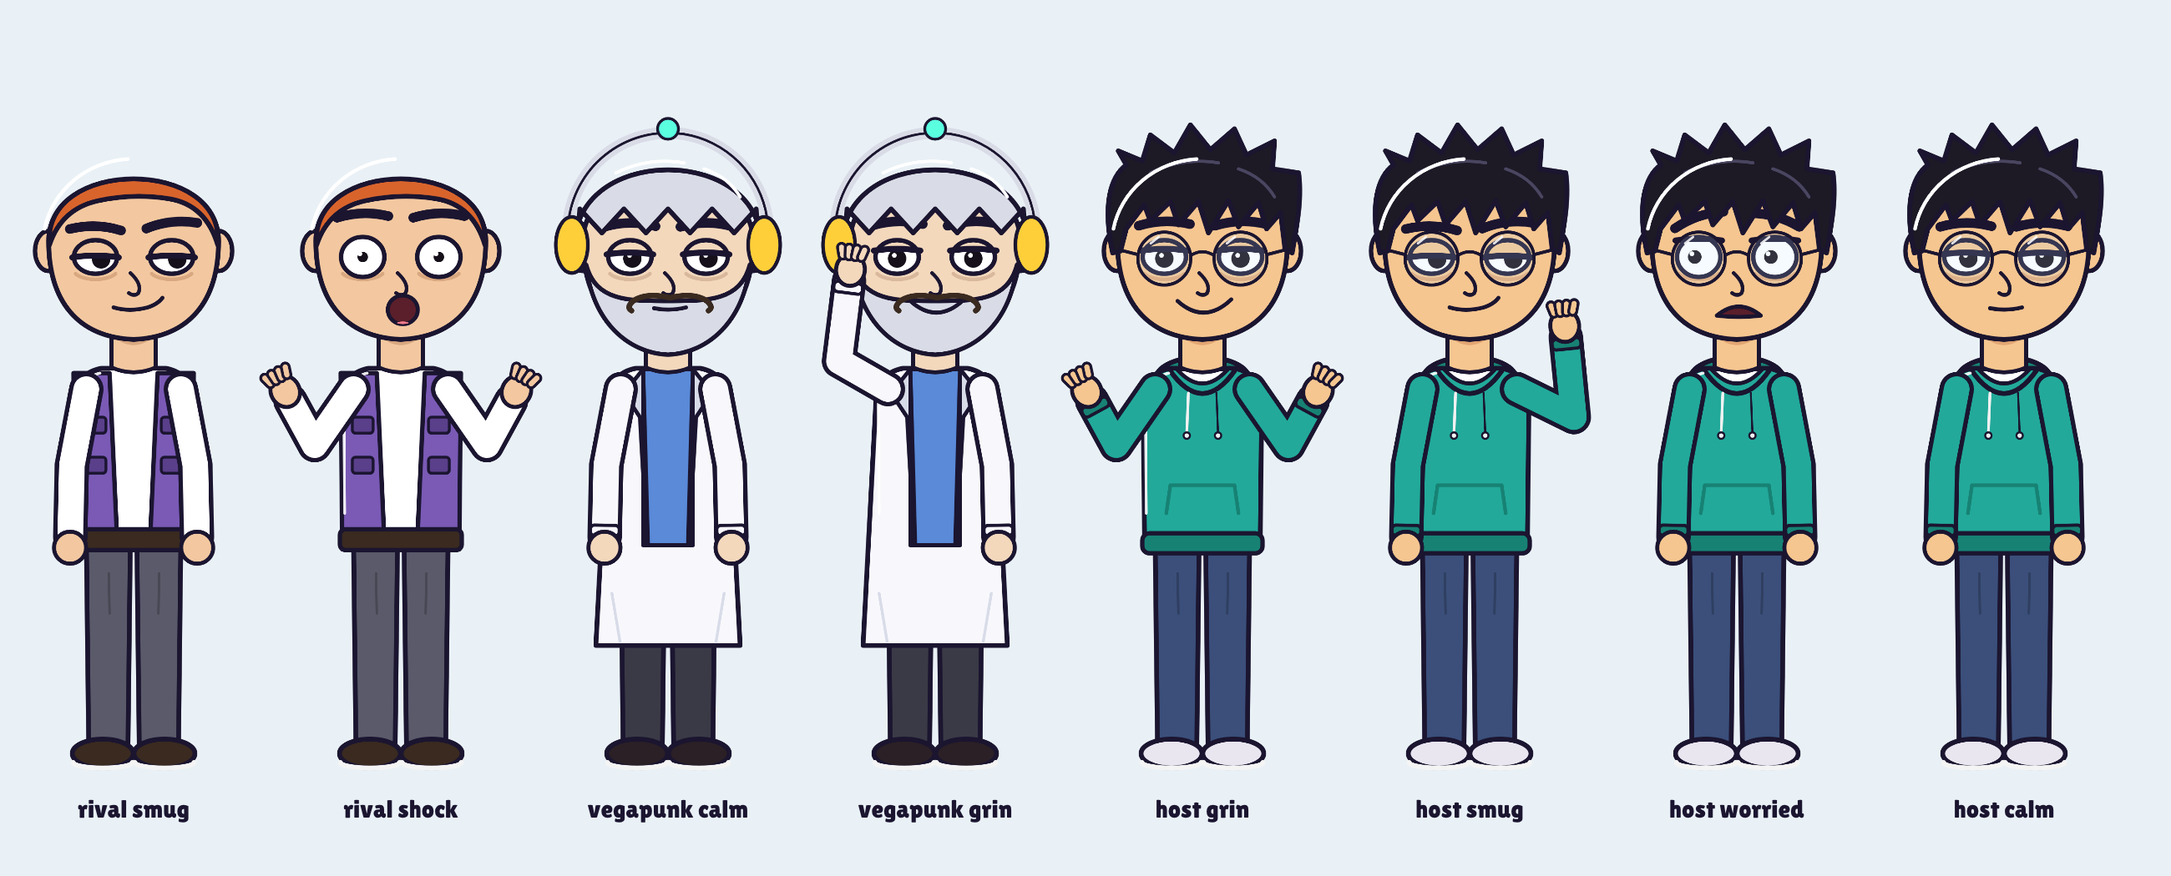
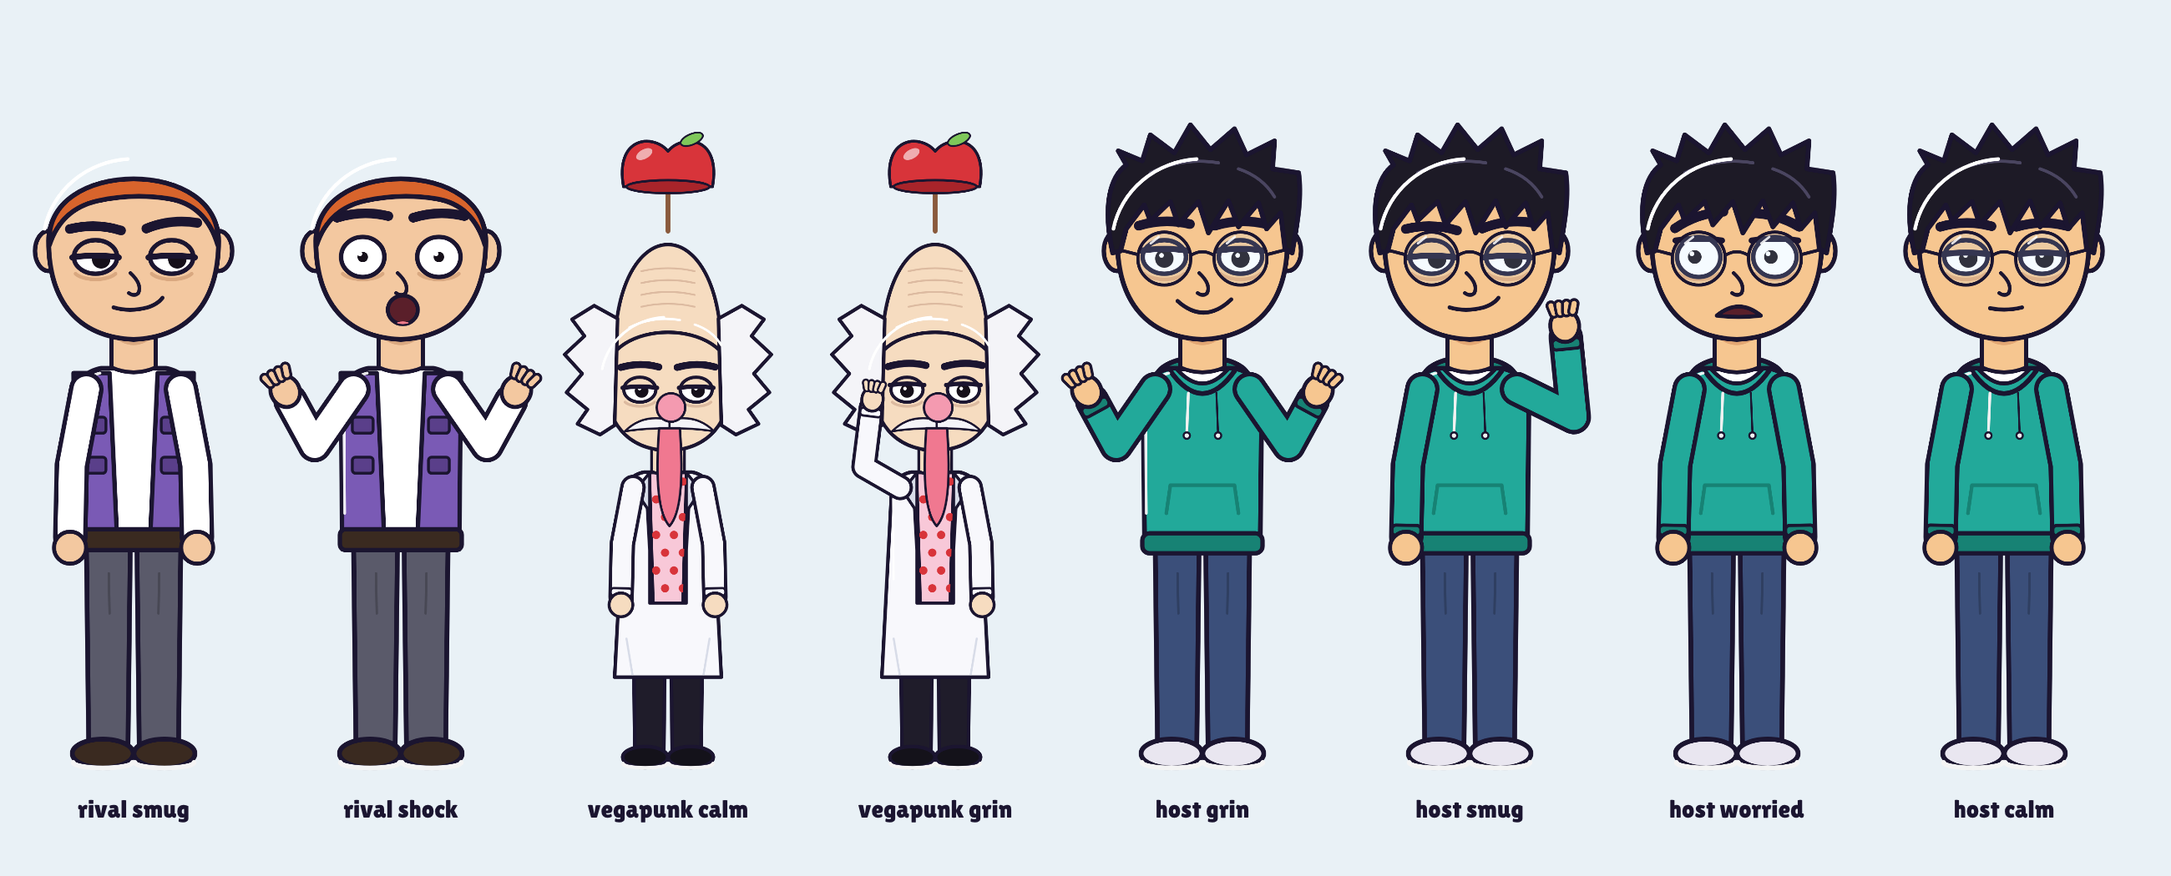
Match Bege and Vegapunk to user references
Claude-Session: https://claude.ai/code/session_01LedSfqc1zbW4UvWfiqXE3c

Changed region(s): [[0.2492, 0.1219, 0.4985, 0.8838]]

diff --git a/engine/art.js b/engine/art.js
@@ -66,7 +66,7 @@ export const LOOKS = {
   boxer: { skin: '#c98d64', skinD: '#ab7049', hair: '#1d1a22', hairL: '#3d3443', hairStyle: 'short',
           top: 'tank', cloth: '#e8402e', clothD: '#b52a1f', pants: '#e8402e', shorts: true, shoe: '#f4f4f8', boots: true, arm: '#c98d64' },
   caribou: { skin: '#9a6a4a', skinD: '#7a5034', hair: '#1d1a22', hairL: '#3d3443', hairStyle: 'spikyLong', grinWide: true, goatee: true,
-          top: 'robe', cloth: '#e0e0d0', clothD: '#c0c0b0', cloakCol: '#1f1f24', cloakLining: '#a8b82a', fur: true, pants: '#c84a32', shoe: '#5a3a26', boots: false, arm: '#e0e0d0', cuff: '#e0e0d0' },
+          top: 'robe', cloth: '#e0e0d0', clothD: '#c0c0b0', cloakCol: '#1f1f24', cloakLining: '#a8b82a', liningSpots: true, fur: true, pants: '#c84a32', shoe: '#5a3a26', boots: false, arm: '#e0e0d0', cuff: '#e0e0d0' },
   franky: { skin: '#f3c09a', skinD: '#d9a07a', hair: '#3fa8ff', hairL: '#8fd0ff', hairStyle: 'pompadour', shades: true,
           top: 'vest', cloth: '#e8402e', clothD: '#ffcf3a', inner: '#f3c09a', pants: '#3f6fb5', shorts: true, shoe: '#c9934f', boots: false, arm: '#f3c09a', sleeveSkin: true },
   fisher: { skin: '#e8b48a', skinD: '#cc9670', hair: '#7a4a2a', hairL: '#a26d45', hairStyle: 'bald', beard: true, hat: 'souwester',
@@ -101,12 +101,12 @@ export const LOOKS = {
           top: 'bare', pants: '#1f1c26', shoe: '#f4ead2', boots: false, arm: '#f4ead2', glove: '#f4ead2' },
   bandit: { skin: '#c98d64', skinD: '#ab7049', hair: '#3a2a20', hairL: '#5b4434', hairStyle: 'short', eyePatch: true, stache2: true,
           top: 'vest', cloth: '#6b4630', clothD: '#4a2f20', inner: '#e8dcc0', pants: '#5a6a3a', shoe: '#3a2a20', boots: true, arm: '#e8dcc0', sleeveSkin: true },
-  bege: { skin: '#f0c8a0', skinD: '#d6a880', hair: '#1d1a22', hairL: '#3d3443', hairStyle: 'short', cigarette: true, stache2: true,
-          top: 'coat', cloth: '#3a3a46', clothD: '#2a2a34', inner: '#f4f4f8', innerD: '#cfd0dc', cravat: true, pants: '#3a3a46', pantsStripes: 'rgba(255,255,255,0.35)', shoe: '#14121a', boots: false, cuff: '#3a3a46' },
+  bege: { skin: '#f0c8a0', skinD: '#d6a880', hair: '#1d1a22', hairL: '#3d3443', hairStyle: 'short', hat: 'fedora', blueMouth: true, grinWide: true, goatee: true, cigar: true,
+          top: 'pinstripe', cloth: '#1b1820', clothD: '#14121a', cloakCol: '#1b1820', cloakLining: '#6b4a30', cloakTrim: '#e8b52e', pants: '#1b1820', pantsStripes: '#f4f4f8', shoe: '#14121a', boots: false, arm: '#1b1820', cuff: '#f4f4f8' },
   grunt: { skin: '#e8b48a', skinD: '#cc9670', hair: '#3a2a20', hairL: '#5b4434', hairStyle: 'short', hat: 'sailorCap',
           top: 'tee', cloth: '#f4f4f8', clothD: '#cfd0dc', inner: '#f4f4f8', pants: '#2a4f8a', shoe: '#2a2026', boots: true, sleeveSkin: false, arm: '#f4f4f8' },
-  vegapunk: { skin: '#f3d8bc', skinD: '#d9b89c', hair: '#d9dce6', hairL: '#ffffff', hairStyle: 'wavy', hat: 'headset', stache: false, stache2: true, beard: true,
-          top: 'coat', cloth: '#f8f8fc', clothD: '#d8dce8', inner: '#5a8ad8', innerD: '#3a6ab8', pants: '#3a3a46', shoe: '#2a2026', boots: false, cuff: '#f8f8fc' },
+  vegapunk: { skin: '#f6dcc0', skinD: '#dcbaa0', hair: '#f4f4f8', hairL: '#ffffff', hairStyle: 'vegaHair', tallDome: true, appleHat: true, fit: 0.74, pinkNose: true, tongue: true, stache: false, stache2: false, vegaStache: true,
+          top: 'coat', cloth: '#f8f8fc', clothD: '#d8dce8', inner: '#f8c8d8', innerD: '#e8a8c0', innerDots: '#d8343a', pants: '#1f1c2a', shoe: '#14121a', boots: false, cuff: '#f8f8fc' },
   rival: { skin: '#f3c8a0', skinD: '#d9a880', hair: '#d8642c', hairL: '#f08a4a', hairStyle: 'short', grinWide: false,
           top: 'vest', cloth: '#7a5ab5', clothD: '#5a3f8a', inner: '#ffffff', pants: '#5a5a6a', shoe: '#3a2a20', boots: false, arm: '#ffffff', sleeveSkin: false },
   sabo: { skin: '#f7cc9c', skinD: '#e2ab78', hair: '#f2cf55', hairL: '#ffe58a', hairStyle: 'curly', hat: 'top', scar: true,
@@ -179,7 +179,8 @@ function drawLegs(x, L) {
 function drawCloak(x, L) { // long smooth cloak from the shoulders to the ground; optional spotted lining and fur collar
   x.beginPath(); x.moveTo(250, 600); x.quadraticCurveTo(0, 900, -20, 1660); x.lineTo(780, 1660); x.quadraticCurveTo(760, 900, 510, 600); x.closePath(); fs(x, L.cloakCol, 12);
   if (L.cloakLining) { x.beginPath(); x.moveTo(260, 640); x.quadraticCurveTo(60, 950, 50, 1640); x.lineTo(710, 1640); x.quadraticCurveTo(700, 950, 500, 640); x.closePath(); fs(x, L.cloakLining, 8);
-    x.save(); x.clip(); x.fillStyle = '#2a2014'; for (let i = 0; i < 46; i++) { x.beginPath(); x.ellipse(40 + (i * 131) % 680, 660 + ((i * 197) % 1000), 18, 26, 0.3, 0, 7); x.fill(); } x.restore(); }
+    if (L.liningSpots) x.save(); else x.save(), x.beginPath(), x.rect(0, 0, 0, 0); x.clip(); x.fillStyle = '#2a2014'; for (let i = 0; i < 46; i++) { x.beginPath(); x.ellipse(40 + (i * 131) % 680, 660 + ((i * 197) % 1000), 18, 26, 0.3, 0, 7); x.fill(); } x.restore(); }
+  if (L.cloakTrim) { x.beginPath(); x.moveTo(250, 600); x.quadraticCurveTo(0, 900, -20, 1660); x.moveTo(510, 600); x.quadraticCurveTo(760, 900, 780, 1660); x.lineWidth = 16; x.strokeStyle = L.cloakTrim; x.stroke(); x.fillStyle = L.cloakTrim; for (let i = 0; i < 8; i++) { const t = i / 8; x.beginPath(); x.arc(lerpN(225, 20, t) - Math.sin(t * Math.PI) * 30, lerpN(700, 1600, t), 12, 0, 7); x.arc(lerpN(535, 740, t) + Math.sin(t * Math.PI) * 30, lerpN(700, 1600, t), 12, 0, 7); x.fill(); } }
   if (L.fur) { x.beginPath(); for (let i = 0; i <= 16; i++) { const a = Math.PI * (1.05 + i / 16 * 0.9), r = i % 2 ? 300 : 270; x.lineTo(380 + Math.cos(a) * r, 520 + Math.sin(a) * r * 0.9); } x.lineTo(560, 640); x.lineTo(200, 640); x.closePath(); fs(x, '#f4f4f8', 10); }
 }
 function drawCape(x, L) { // huge black-purple feather coat draped from the shoulders
@@ -214,6 +215,7 @@ function drawTorso(x, L) {
     x.beginPath(); x.moveTo(318, 640); x.lineTo(442, 640); x.lineTo(430, 1080); x.lineTo(330, 1080); x.closePath(); fs(x, L.inner, 10);
     for (const sd of [-1, 1]) { x.beginPath(); x.moveTo(380 - sd * 62, 640); x.lineTo(380 - sd * 110, 700); x.lineTo(380 - sd * 70, 760); x.lineTo(380 - sd * 52, 1080); x.lineTo(380 - sd * 62, 1080); x.closePath(); fs(x, L.clothD, 10); }
     x.lineWidth = 7; x.strokeStyle = L.clothD; x.beginPath(); x.moveTo(240, 1200); x.lineTo(260, 1320); x.moveTo(520, 1200); x.lineTo(500, 1320); x.stroke();
+    if (L.innerDots) { x.save(); x.beginPath(); x.moveTo(318, 640); x.lineTo(442, 640); x.lineTo(430, 1080); x.lineTo(330, 1080); x.closePath(); x.clip(); x.fillStyle = L.innerDots; for (let yy = 670; yy < 1080; yy += 60) for (let xx = 335 + ((yy / 60) % 2) * 30; xx < 440; xx += 60) { x.beginPath(); x.arc(xx, yy, 14, 0, 7); x.fill(); } x.restore(); }
     if (L.hearts) { for (const [hx, hy] of [[352, 690], [408, 740], [356, 800], [404, 860], [352, 920], [408, 980], [358, 1040]]) { x.save(); x.translate(hx, hy); x.beginPath(); x.moveTo(0, 14); x.bezierCurveTo(-26, -2, -12, -22, 0, -8); x.bezierCurveTo(12, -22, 26, -2, 0, 14); x.fillStyle = '#d6303e'; x.fill(); x.restore(); } }
     if (L.cravat) { x.beginPath(); x.moveTo(350, 648); x.lineTo(410, 648); x.lineTo(395, 720); x.lineTo(380, 760); x.lineTo(365, 720); x.closePath(); fs(x, '#f7f4ee', 8); }
   } else if (L.top === 'shirtCape') {
@@ -267,6 +269,9 @@ function drawTorso(x, L) {
     x.beginPath(); x.arc(380, 900, 36, 0, 7); x.lineWidth = 12; x.stroke();
     for (const sd of [-1, 1]) { x.beginPath(); x.moveTo(380 + sd * 150, 650); x.lineTo(380 + sd * 120, 650); x.quadraticCurveTo(380 + sd * 100, 780, 380 + sd * 130, 880); x.lineTo(380 + sd * 150, 880); x.closePath(); fs(x, '#e0d4b8', 8); }
     rrect(x, 228, 1040, 304, 30, 10); fs(x, '#14121a', 8);
+  } else if (L.top === 'pinstripe') { // pinstripe suit jacket with a green cravat
+    torso(); fs(x, L.cloth, 12); x.save(); torso(); x.clip(); x.strokeStyle = '#f4f4f8'; x.lineWidth = 7; for (let k = 245; k < 530; k += 30) { x.beginPath(); x.moveTo(k, 640); x.lineTo(k, 1100); x.stroke(); } x.restore(); torso(); x.lineWidth = 12; x.strokeStyle = OL; x.stroke();
+    x.beginPath(); x.moveTo(330, 640); x.quadraticCurveTo(290, 740, 340, 820); x.lineTo(380, 780); x.lineTo(420, 820); x.quadraticCurveTo(470, 740, 430, 640); x.closePath(); fs(x, '#7fc85a', 9);
   } else if (L.top === 'dress') { // short dress with a flared skirt
     x.beginPath(); x.moveTo(232, 720); x.quadraticCurveTo(236, 650, 300, 638); x.lineTo(460, 638); x.quadraticCurveTo(524, 650, 528, 720); x.lineTo(530, 960); x.lineTo(620, 1300); x.quadraticCurveTo(380, 1350, 140, 1300); x.lineTo(230, 960); x.closePath(); fs(x, L.cloth, 12);
     if (L.dots) { x.save(); x.clip(); x.fillStyle = L.dots; for (let yy = 700; yy < 1340; yy += 70) for (let xx = 160 + (yy / 70 % 2) * 35; xx < 620; xx += 70) { x.beginPath(); x.arc(xx, yy, 13, 0, 7); x.fill(); } x.restore(); }
@@ -313,6 +318,7 @@ function drawArms(x, L, pose) {
 export function drawPerson({ who = 'host', expr = 'calm', mouth = 0, blink = false, pose = 'idle' }) {
   const L = LOOKS[who], c = mk(FIG.W, FIG.H), x = c.getContext('2d');
   x.translate(FIG.OX, FIG.OY);
+  if (L.fit) { x.translate(380, 1635); x.scale(L.fit, L.fit); x.translate(-380, -1635); }
   if (L.cape) drawCape(x, L);
   if (L.hairStyle === 'long') { // long wavy hair hanging behind the head down past the shoulders
     x.beginPath(); x.moveTo(380, 100); x.bezierCurveTo(60, 100, 90, 500, 110, 700); for (let i = 0; i < 7; i++) x.quadraticCurveTo(140 + i * 80, 800 + (i % 2) * 40, 180 + i * 80, 760 + (i % 2 ? 0 : 50));
@@ -328,6 +334,7 @@ export function drawPerson({ who = 'host', expr = 'calm', mouth = 0, blink = fal
   x.beginPath(); x.moveTo(325, 520); x.lineTo(325, 636); x.quadraticCurveTo(380, 660, 435, 636); x.lineTo(435, 520); x.closePath(); fs(x, L.skin, 10);
   x.beginPath(); x.moveTo(330, 560); x.quadraticCurveTo(380, 600, 430, 560); x.lineTo(430, 530); x.lineTo(330, 530); x.closePath(); x.fillStyle = L.skinD; x.fill();
   if (L.beads) for (let i = 0; i < 13; i++) { const a = Math.PI * (0.15 + 0.7 * i / 12); x.beginPath(); x.arc(380 - Math.cos(a) * 95, 640 + Math.sin(a) * 70, 15, 0, 7); fs(x, '#d8342c', 6); }
+  if (L.tallDome) { x.beginPath(); x.moveTo(200, 260); x.bezierCurveTo(190, -260, 570, -260, 560, 260); x.closePath(); fs(x, L.skin, 12); x.strokeStyle = L.skinD; x.lineWidth = 6; for (let i = 0; i < 4; i++) { x.beginPath(); x.moveTo(290, -40 + i * 40); x.quadraticCurveTo(380, -60 + i * 40, 470, -40 + i * 40); x.stroke(); } }
   // ---- ears + head ----
   for (const ex of [168, 592]) { x.beginPath(); x.ellipse(ex, 345, 34, 50, 0, 0, 7); fs(x, L.skin, 11); }
   const head = () => { x.beginPath(); x.moveTo(168, 320); x.bezierCurveTo(168, 115, 592, 115, 592, 320); x.bezierCurveTo(592, 470, 520, 560, 380, 566); x.bezierCurveTo(240, 560, 168, 470, 168, 320); x.closePath(); };
@@ -397,6 +404,8 @@ export function drawPerson({ who = 'host', expr = 'calm', mouth = 0, blink = fal
   if (L.clown) { x.beginPath(); x.moveTo(296, 474); x.quadraticCurveTo(385, 566, 474, 470); x.quadraticCurveTo(512, 450, 530, 400); x.moveTo(296, 474); x.quadraticCurveTo(258, 452, 240, 404); x.lineWidth = 15; x.strokeStyle = '#c42a3a'; x.lineCap = 'round'; x.stroke(); }
   if (L.cigarette) { x.save(); x.translate(440, 500); x.rotate(0.25); rrect(x, 0, -9, 90, 18, 6); fs(x, '#ffffff', 6); x.fillStyle = '#ff7a2e'; x.fillRect(80, -7, 10, 14); x.restore(); x.lineWidth = 6; x.strokeStyle = 'rgba(220,220,230,0.8)'; x.beginPath(); x.moveTo(530, 520); x.quadraticCurveTo(560, 470, 540, 430); x.quadraticCurveTo(520, 390, 550, 350); x.stroke(); }
   if (L.grinWide) { x.beginPath(); x.moveTo(290, 470); x.quadraticCurveTo(385, 575, 480, 470); x.quadraticCurveTo(385, 500, 290, 470); fs(x, '#ffffff', 9); x.lineWidth = 4; x.strokeStyle = OL; for (const tx of [330, 360, 390, 420, 450]) { x.beginPath(); x.moveTo(tx, 482); x.lineTo(tx, 515 - Math.abs(tx - 390) * 0.3); x.stroke(); } }
+  if (L.vegaStache) for (const sd of [-1, 1]) { x.beginPath(); x.moveTo(385, 462); x.quadraticCurveTo(385 + sd * 90, 440, 385 + sd * 150, 500); x.quadraticCurveTo(385 + sd * 80, 490, 385, 490); x.closePath(); fs(x, '#f4f4f8', 7); }
+  if (L.tongue) { x.beginPath(); x.moveTo(350, 490); x.quadraticCurveTo(330, 760, 385, 820); x.quadraticCurveTo(440, 760, 420, 490); x.closePath(); fs(x, '#f07890', 8); }
   if (L.stache2) { for (const sd of [-1, 1]) { x.beginPath(); x.moveTo(385, 462); x.quadraticCurveTo(385 + sd * 60, 448, 385 + sd * 92, 470); x.quadraticCurveTo(385 + sd * 110, 486, 385 + sd * 96, 494); x.lineWidth = 14; x.strokeStyle = '#3a2a20'; x.lineCap = 'round'; x.stroke(); } }
   if (L.stache) { for (const sd of [-1, 1]) { x.beginPath(); x.moveTo(380, 444);
     x.quadraticCurveTo(380 + sd * 170, 432, 380 + sd * 285, 280); x.quadraticCurveTo(380 + sd * 230, 476, 380, 480); x.closePath(); fs(x, '#ffffff', 9); } }
@@ -447,6 +456,8 @@ export function drawPerson({ who = 'host', expr = 'calm', mouth = 0, blink = fal
     x.lineTo(640, 520); x.lineTo(580, 520); x.quadraticCurveTo(600, 250, 470, 220); x.quadraticCurveTo(380, 250, 300, 220); x.quadraticCurveTo(170, 260, 180, 520); x.closePath();
   } else if (L.hairStyle === 'crest') { // tall crest of hair sweeping straight up
     x.moveTo(250, 260); x.quadraticCurveTo(230, 40, 340, -120); x.quadraticCurveTo(420, -60, 520, -150); x.quadraticCurveTo(560, 60, 510, 260); x.quadraticCurveTo(380, 210, 250, 260); x.closePath();
+  } else if (L.hairStyle === 'vegaHair') { // wild white tufts on both sides of a bald head
+    for (const sd of [-1, 1]) { x.moveTo(380 + sd * 170, 120); for (let i = 0; i <= 8; i++) { const a = -0.9 + i * 0.25; x.lineTo(380 + sd * (200 + (i % 2 ? 150 : 90)) * Math.cos(a * 0.6), 280 + Math.sin(a) * 260); } x.lineTo(380 + sd * 180, 480); x.closePath(); }
   } else if (L.hairStyle === 'bald') { x.moveTo(380, 330);
   } else { // bandana
     x.moveTo(160, 300); x.bezierCurveTo(150, 100, 610, 100, 600, 300); x.quadraticCurveTo(380, 250, 160, 300); x.closePath();
@@ -482,6 +493,9 @@ export function drawPerson({ who = 'host', expr = 'calm', mouth = 0, blink = fal
   if (L.clownNose) { x.beginPath(); x.arc(390, 430, 52, 0, 7); fs(x, '#e8302e', 9); x.beginPath(); x.arc(372, 412, 14, 0, 7); x.fillStyle = 'rgba(255,255,255,0.8)'; x.fill(); }
   if (L.leopardSpots) { x.fillStyle = L.spotCol || '#5a3a1a'; for (const [sx, sy] of [[230, 240], [530, 250], [210, 440], [550, 450], [300, 180], [460, 180]]) { x.beginPath(); x.ellipse(sx, sy, 16, 12, 0.4, 0, 7); x.fill(); } }
   if (L.eyePatch) { x.beginPath(); x.ellipse(475, 360, 70, 56, 0, 0, 7); fs(x, '#1b1530', 8); x.beginPath(); x.moveTo(170, 250); x.lineTo(590, 410); x.lineWidth = 12; x.strokeStyle = '#1b1530'; x.stroke(); }
+  if (L.blueMouth) { x.beginPath(); x.ellipse(385, 480, 120, 80, 0, 0, 7); x.fillStyle = 'rgba(120,170,210,0.45)'; x.fill(); x.fillStyle = 'rgba(60,90,130,0.5)'; for (let i = 0; i < 18; i++) { x.beginPath(); x.arc(300 + (i * 37) % 170, 430 + (i * 23) % 100, 4, 0, 7); x.fill(); } }
+  if (L.pinkNose) { x.beginPath(); x.arc(390, 420, 48, 0, 7); fs(x, '#f49ab0', 8); }
+  if (L.cigar) { x.save(); x.translate(440, 500); x.rotate(0.2); rrect(x, 0, -14, 130, 28, 10); fs(x, '#8a5a3c', 6); x.fillStyle = '#d9b44a'; x.fillRect(10, -14, 16, 28); x.restore(); x.lineWidth = 10; x.strokeStyle = 'rgba(240,240,250,0.85)'; x.beginPath(); x.moveTo(580, 510); x.quadraticCurveTo(620, 420, 590, 360); x.quadraticCurveTo(560, 300, 610, 240); x.stroke(); }
   if (L.lips) { x.beginPath(); x.ellipse(385, 488, 34, 12, 0, 0, 7); x.fillStyle = '#d6303e'; x.fill(); }
   if (L.hat === 'killerMask') { // round striped mask covering the whole face, with breathing holes
     x.beginPath(); x.ellipse(380, 330, 225, 240, 0, 0, 7); fs(x, '#f4f4f8', 12); x.save(); x.clip(); x.fillStyle = '#3f6fb5'; for (let k = -3; k < 4; k++) x.fillRect(360 + k * 90, 60, 44, 600); x.restore();
@@ -503,6 +517,8 @@ export function drawPerson({ who = 'host', expr = 'calm', mouth = 0, blink = fal
   if (L.catEars) for (const sd of [-1, 1]) { x.beginPath(); x.moveTo(380 + sd * 120, 150); x.lineTo(380 + sd * 230, -40); x.lineTo(380 + sd * 260, 180); x.closePath(); fs(x, L.skin, 10); x.beginPath(); x.moveTo(380 + sd * 150, 140); x.lineTo(380 + sd * 225, 20); x.lineTo(380 + sd * 240, 160); x.closePath(); x.fillStyle = L.skinD; x.fill(); }
   if (L.hat === 'sailorCap') { x.beginPath(); x.ellipse(380, 170, 230, 70, 0, 0, 7); fs(x, '#ffffff', 12); rrect(x, 200, 150, 360, 70, 30); fs(x, '#ffffff', 11); x.fillStyle = '#2a5ab8'; x.fillRect(205, 196, 350, 18); }
   if (L.hat === 'headset') { x.beginPath(); x.arc(380, 300, 250, Math.PI * 1.05, Math.PI * 1.95); x.lineWidth = 30; x.strokeStyle = '#d9dce6'; x.stroke(); x.lineWidth = 6; x.strokeStyle = OL; x.stroke(); for (const sd of [-1, 1]) { x.beginPath(); x.ellipse(380 + sd * 240, 330, 40, 70, 0, 0, 7); fs(x, '#ffcf3a', 9); } x.beginPath(); x.arc(380, 40, 26, 0, 7); fs(x, '#5affe0', 7); }
+  if (L.hat === 'fedora') { x.beginPath(); x.ellipse(380, 170, 300, 56, 0, 0, 7); fs(x, '#1b1820', 12); x.beginPath(); x.moveTo(230, 175); x.bezierCurveTo(230, -10, 530, -10, 530, 175); x.closePath(); fs(x, '#1f1c26', 12); x.beginPath(); x.moveTo(380, 30); x.lineTo(380, 90); x.lineWidth = 10; x.strokeStyle = '#14121a'; x.stroke(); }
+  if (L.appleHat) { const top = L.tallDome ? -175 : 60; x.beginPath(); x.moveTo(380, top); x.lineTo(380, top - 150); x.lineWidth = 16; x.strokeStyle = '#8a5a3c'; x.stroke(); x.beginPath(); x.moveTo(230, top - 150); x.bezierCurveTo(200, top - 320, 330, top - 330, 380, top - 270); x.bezierCurveTo(430, top - 330, 560, top - 320, 530, top - 150); x.closePath(); fs(x, '#d8343a', 10); x.beginPath(); x.ellipse(380, top - 150, 140, 22, 0, 0, 7); fs(x, '#a8242a', 8); x.beginPath(); x.ellipse(460, top - 310, 40, 18, -0.4, 0, 7); fs(x, '#7fc85a', 6); x.beginPath(); x.ellipse(300, top - 260, 30, 16, -0.5, 0, 7); x.fillStyle = 'rgba(255,255,255,0.6)'; x.fill(); }
   if (L.hat === 'beanie') {
     x.beginPath(); x.moveTo(180, 300); x.bezierCurveTo(170, 60, 590, 60, 580, 300); x.closePath(); fs(x, '#c0392b', 12); rrect(x, 165, 250, 430, 70, 24); fs(x, '#962a1f', 11); x.beginPath(); x.arc(380, 70, 40, 0, 7); fs(x, '#f4f4f8', 9);
   } else if (L.hat === 'chef') {

diff --git a/specs/brain.py b/specs/brain.py
@@ -13,5 +13,5 @@ SPEC = dict(name='brain', title='Nomi Nomi no Mi', structure='3 abilities + Punk
   ('joke', 'Users of this fruit never fail a test.#green')],
  plan=dict(english='Brain-Brain Fruit', labels='GROW, REMEMBER, DETACH, RECORDS',
   fruit='The fruit\'s appearance **has never been revealed**, so a plain round swirl fruit in pink stands in (no face or limbs).',
-  cast=['**Enemy (new, original):** a know-it-all rival student with red hair and a purple sweater vest.', '**Dr. Vegapunk:** an old scientist with white hair, moustache and beard, a lab coat and a headset with a glowing antenna. Send a reference to match him exactly.', '**The six satellites:** six coloured figures in pods (no detailed designs).'],
+  cast=['**Enemy (new, original):** a know-it-all rival student with red hair and a purple sweater vest.', '**Dr. Vegapunk (matched to your reference):** tall bald dome head with wild white side hair, red apple hat floating on a stalk, pink round nose, white moustache, long tongue, open lab coat over a pink shirt with red dots, black pants.', '**The six satellites:** six coloured figures in pods (no detailed designs).'],
   sets='library, indigo rays, towers of books, planetarium, circuit-board wall, classroom with a chalkboard, corridor of doors, lab with glowing tubes, sky full of data cables, hallway with a tiny door, glowing vat lab, room of six pods, exam hall.'))

diff --git a/specs/castle.py b/specs/castle.py
@@ -13,5 +13,5 @@ SPEC = dict(name='castle', title='Shiro Shiro no Mi', structure='3 techniques + 
   ('joke', 'Users of this fruit never pay rent.#green')],
  plan=dict(english='Castle-Castle Fruit', labels='CREW, CANNONS, TRAP, BIG FATHER',
   fruit='The fruit\'s appearance **has never been revealed**, so a plain round swirl fruit in stone grey stands in (no face or limbs).',
-  cast=['**Enemy (new, original):** a marine grunt in a white sailor cap and uniform.', '**Capone Bege:** slicked-back black hair, moustache, cigar, dark pinstripe suit with a white cravat. Send a reference to match him exactly.', '**Fortress body:** stone texture, little windows, gates and cannon ports on the host.'],
+  cast=['**Enemy (new, original):** a marine grunt in a white sailor cap and uniform.', '**Capone Bege (matched to your reference):** black fedora, blue stubble around a big grin, goatee, cigar, black-and-white pinstripe suit, green cravat, long black coat with gold trim and buttons over a brown lining.', '**Fortress body:** stone texture, little windows, gates and cannon ports on the host.'],
   sets='medieval town, lavender rays, castle gate, drawbridge over a moat, castle battlements, gangster office, smoky battlefield, dungeon with torches, candy-island coast, cracked stone wall, sick bay, stormy escape at sea, apartment hallway with a FOR RENT sign.'))

diff --git a/shorts/brain/PLAN.md b/shorts/brain/PLAN.md
@@ -39,7 +39,7 @@ Facts used (One Piece Wiki via search):
 
 - **Host:** same as before.
 - **Enemy (new, original):** a know-it-all rival student with red hair and a purple sweater vest.
-- **Dr. Vegapunk:** an old scientist with white hair, moustache and beard, a lab coat and a headset with a glowing antenna. Send a reference to match him exactly.
+- **Dr. Vegapunk (matched to your reference):** tall bald dome head with wild white side hair, red apple hat floating on a stalk, pink round nose, white moustache, long tongue, open lab coat over a pink shirt with red dots, black pants.
 - **The six satellites:** six coloured figures in pods (no detailed designs).
 - Sheet: `review/cast_sheet.png`.
 

diff --git a/shorts/castle/PLAN.md b/shorts/castle/PLAN.md
@@ -39,7 +39,7 @@ Facts used (One Piece Wiki via search):
 
 - **Host:** same as before.
 - **Enemy (new, original):** a marine grunt in a white sailor cap and uniform.
-- **Capone Bege:** slicked-back black hair, moustache, cigar, dark pinstripe suit with a white cravat. Send a reference to match him exactly.
+- **Capone Bege (matched to your reference):** black fedora, blue stubble around a big grin, goatee, cigar, black-and-white pinstripe suit, green cravat, long black coat with gold trim and buttons over a brown lining.
 - **Fortress body:** stone texture, little windows, gates and cannon ports on the host.
 - Sheet: `review/cast_sheet.png`.
 
